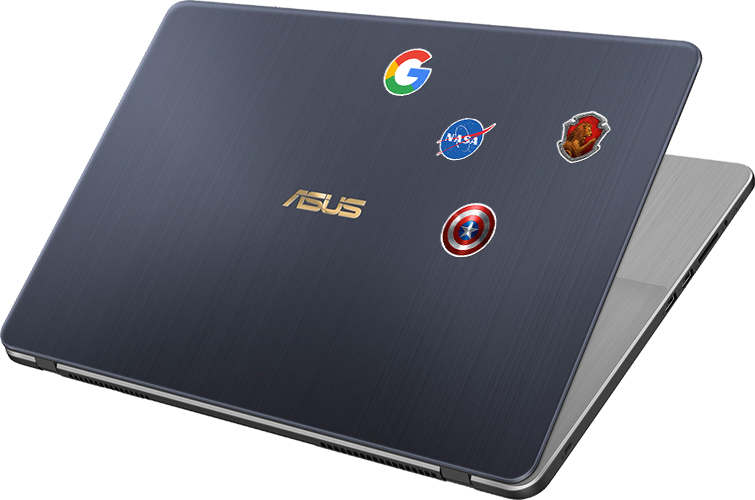
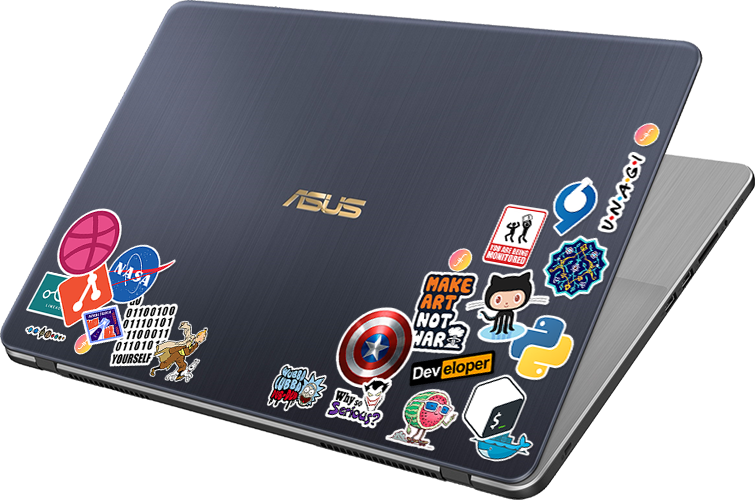
added how section

diff --git a/components/index/how.vue b/components/index/how.vue
@@ -1,0 +1,63 @@
+<template>
+    <div class="row double-gutter align-center">
+        <div class="all-12">
+            <h2>چطوری کار میکنه</h2>
+            <p>حتما شده دلتون بخواد از فلربو استیکر لپتاپ بخرید اما نمیدونستید که به لپتاپتون میاد یا نه.<br>حالا کافیه این کار رو بکنید:</p>
+        </div>
+        <div class="all-12">
+            <div class="row">
+                <div class="desktop-4 double-gap">
+                    <small>قدم ۱</small>
+                    <h3 class="no-margin gutter">استیکرهایی که میخوایین رو انتخاب کنین</h3>
+                    <div class="gap">
+                        <img src="~/assets/images/flerbo-stickers.png" class="responsive" alt="پرطرفدارترین استیکرهایی که داریم">
+                    </div>
+                </div>
+                <div class="desktop-4 double-gap">
+                    <small>قدم ۲</small>
+                    <h3 class="no-margin gutter">استیکرها رو روی لپتاپتون هزار بار بچینین</h3>
+                    <div class="gap">
+                        <img src="~/assets/images/flerbo-laptop.png" class="responsive" alt="پیش نمایش استیکر روی لپتاپ">
+                    </div>
+                </div>
+                <div class="desktop-4 double-gap">
+                    <small>قدم ۳</small>
+                    <h3 class="no-margin gutter">اگه از استیکرها خوشتون اومد، بخریدشون</h3>
+                    <div class="gap">
+                        <img src="~/assets/images/flerbo-post.png" class="responsive" alt="ارسال سفارش از طریق پست">
+                    </div>
+                </div>
+            </div>
+        </div>
+        <div class="all-12">
+            <p class="no-margin">برای خودتون امتحان کنین.</p>
+            <div class="double-gutter">
+                <router-link :to="{ name: 'preview' }" class="button">
+                    شروع کن
+                </router-link>
+            </div>
+        </div>
+    </div>
+</template>
+<style lang="postcss" scoped>
+    @import '../../assets/styles/vars/all.css';
+    p,
+    small {
+        color: $dark-grey;
+    }
+    h2 {
+        display: inline-block;
+        font-weight: 700;
+        font-size: 22px;
+        line-height: 2.5;
+        position: relative;
+        &:after,
+        &:before {
+            @util size(80px, 1px);
+            background-color: $sazito;
+            content: '';
+            display: block;
+            margin: auto;
+        }
+    }
+</style>

diff --git a/components/index/intro.vue b/components/index/intro.vue
@@ -1,5 +1,5 @@
 <template>
-    <div class="row double-gutter align-content-middle align-content-center">
+    <div class="wrapper row double-gutter align-content-middle align-content-center">
         <div class="desktop-5 double-gap">
             <div class="row align-content-center">
                 <div class="desktop-10">
@@ -9,7 +9,7 @@
         </div>
         <div class="desktop-5 double-gap">
             <h1 class="no-margin">
-                استیکرهای لپتاپت رو بچین
+                استیکرهای لپتاپت رو بچین
             </h1>
             <p class="intro no-margin gutter">
                 قبل از این که استیکرهات رو از <a href="https://flerbo.ir/?utm_source=myflerbo&utm_campaign=v1&utm_content=intro" class="link">فلربو</a> بخری، روی لپتاپت بچینشون و اگه خوشت اومد، با تخفیف سفارششون بده!
@@ -24,6 +24,9 @@
 </template>
 <style lang="postcss" scoped>
     @import '../../assets/styles/vars/all.css';
+    .wrapper {
+        min-height: 60vh;
+    }
     h1 {
         color: $black;
         font-size: 80px;

diff --git a/assets/styles/base/grid.css b/assets/styles/base/grid.css
@@ -47,6 +47,11 @@ body {
     flex-grow: 1;
 }
 
+.desktop-4 {
+    flex: 0 0 33.3333%;
+    max-width: 33.3333%;
+}
+
 .desktop-5 {
     flex: 0 0 41.6667%;
     max-width: 41.6667%;
@@ -60,4 +65,9 @@ body {
 .desktop-10 {
     flex: 0 0 83.3333%;
     max-width: 83.3333%;
+}
+
+.all-12 {
+    flex: 0 0 100%;
+    max-width: 100%;
 }

diff --git a/pages/index.vue b/pages/index.vue
@@ -1,14 +1,17 @@
 <template>
     <section class="container">
         <intro />
+        <how />
     </section>
 </template>
 <script>
 import Intro from '~/components/index/intro';
+import How from '~/components/index/how';
 
 export default {
     components: {
         Intro,
+        How,
     },
 };
 </script>
